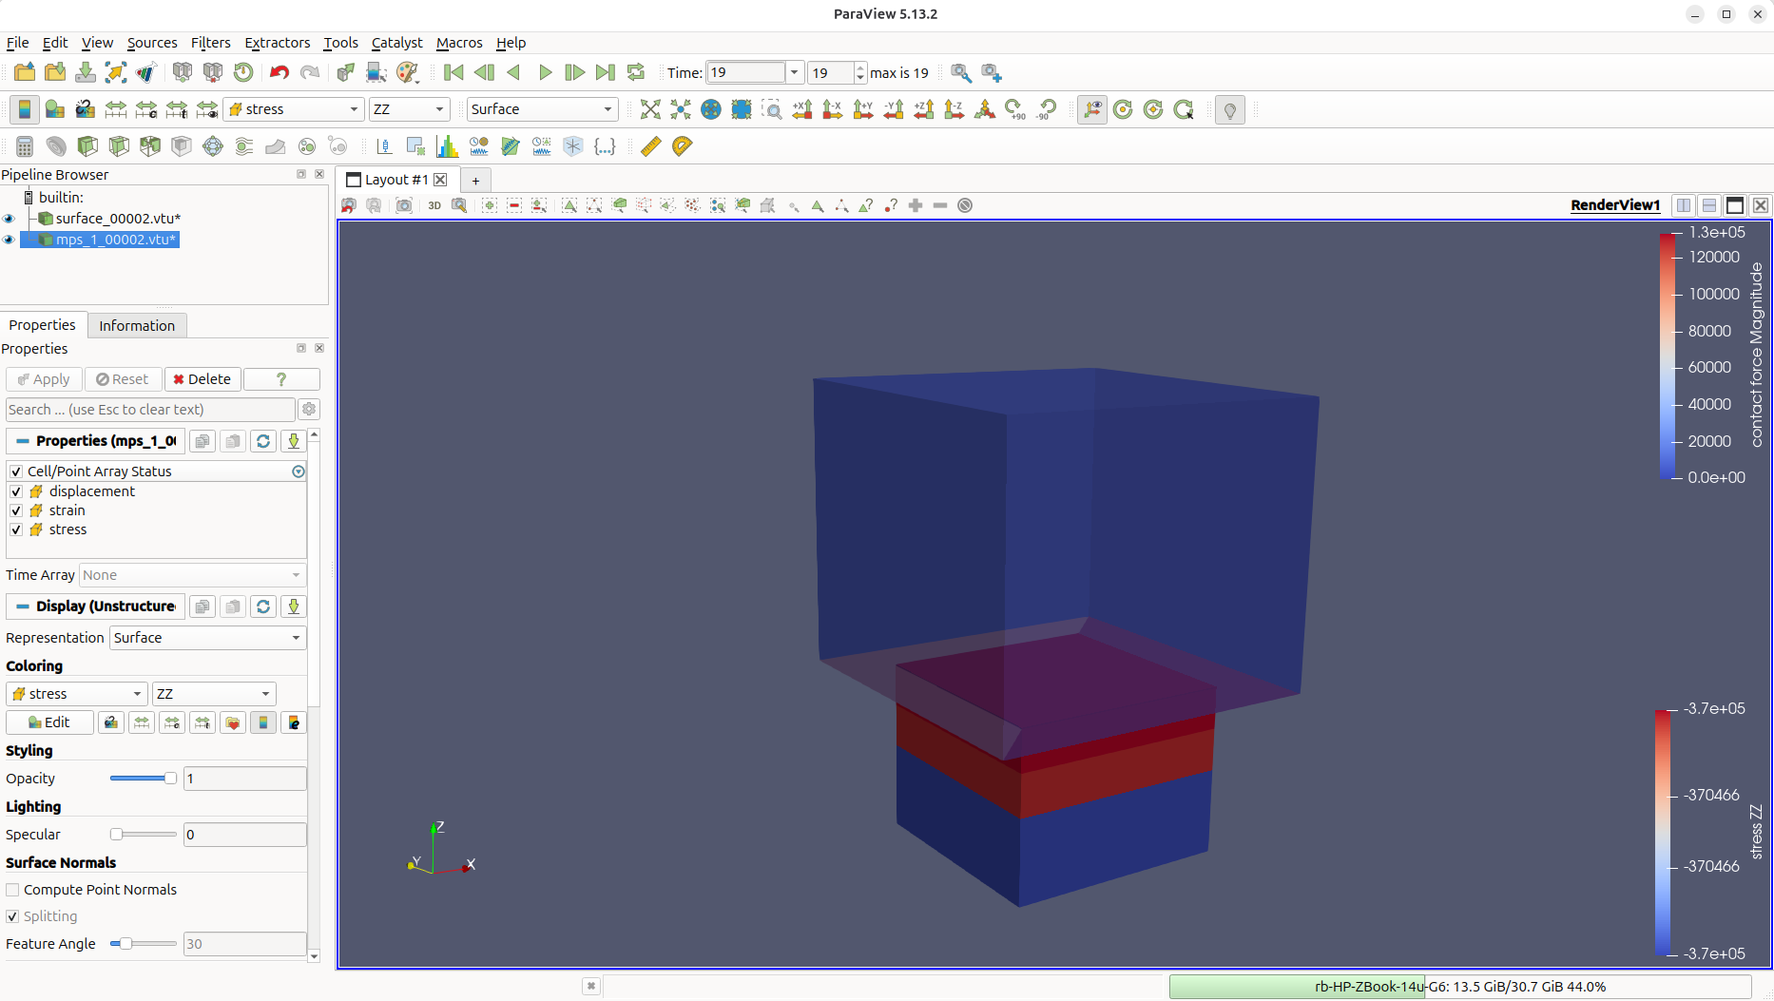
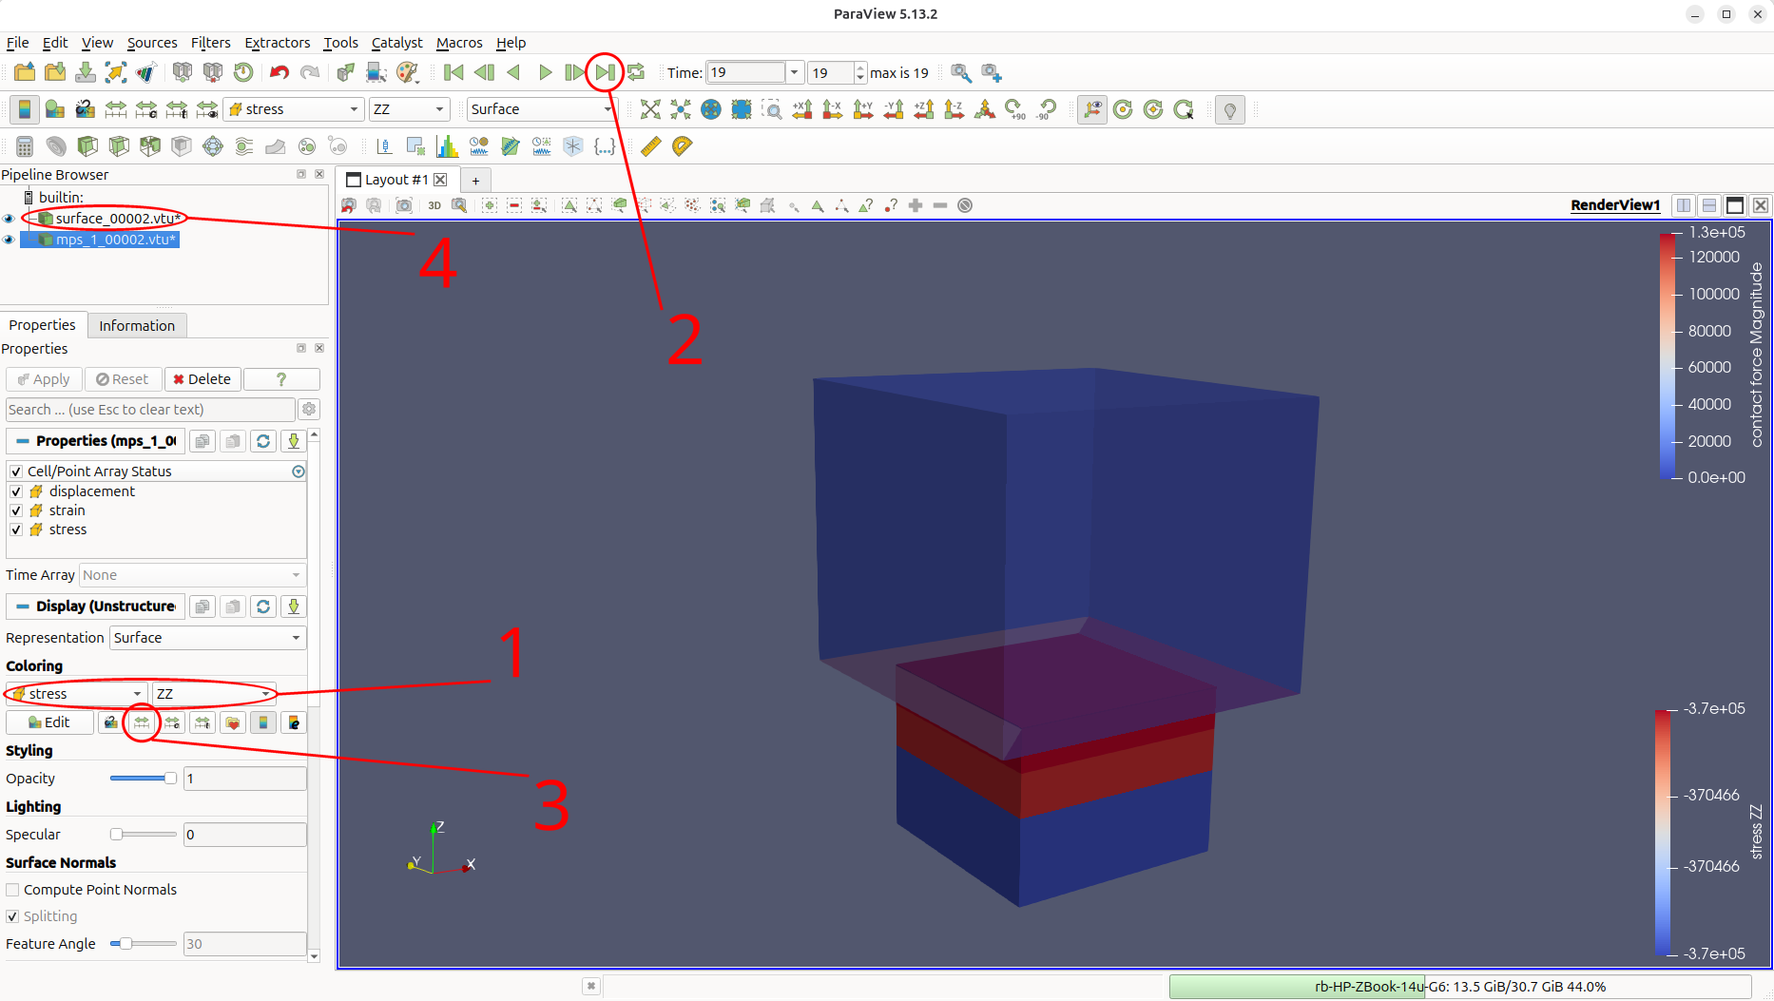
new images and labels

diff --git a/docs/stylesheets/extra.css b/docs/stylesheets/extra.css
@@ -669,6 +669,15 @@ h1, h2, h3, h4, h5, h6 {
   justify-items: center;
 }
 
+/* ... but cards fill their cells, as in Material's own grid cards. With
+   <div class="grid cards equal" markdown> every row is the height of the tallest. */
+.md-typeset .grid.cards {
+  justify-items: stretch;
+}
+.md-typeset .grid.cards.equal {
+  grid-auto-rows: 1fr;
+}
+
 /* Fix .grid layout when figures are wrapped in <p> by python-markdown.
    Browsers auto-close the <p> before the block-level <figure>, leaving stray
    empty <p> elements as grid items. Hide them so only the figures count. */

diff --git a/docs/docs/TutorialProblems/Tutorial_6.md b/docs/docs/TutorialProblems/Tutorial_6.md
@@ -601,51 +601,37 @@ The VTK files are written to `vtk_AC14_dr32` (see [Output](#output)). The walkth
 
 <div class="walkthrough" markdown>
 <div markdown>
-**1. Open the soil and the anchor.** *File → Open*, go to `vtk_AC14_dr32`, hold `Ctrl` and select the `mps_1_..vtu` (soil) and `surface_..vtu` (fluke and shank) series, click *OK* and then *Apply*.
+**1. Open the soil and the anchor.** *File → Open* and go to `vtk_AC14_dr32`. Hold `Ctrl` and select the `mps_1_..vtu` (soil), `surface_..vtu` (fluke and shank) and `tracked_..vtu` (the fluke-tip marker) series (1), then click *OK* (2).
 </div>
 <div markdown>
-!!! example "Placeholder: ParaView screenshot"
-    `img/Tutorial_6/paraview_1.png` - the soil and the anchor after *Apply*.
+![The soil, anchor surface and tracked-node series selected in the Open File dialog.](../../img/Tutorial_6/anchor_1.png){ #fig-anchor-pv-1 }
 </div>
 </div>
 
 <div class="walkthrough" markdown>
 <div markdown>
-**2. Mirror the half model.** Select `mps_1_..vtu` and apply *Filters → Alphabetical → Reflect* with *Plane* `Y` and *Center* `0`. Do the same for `surface_..vtu` to show the whole anchor.
+**2. Go to the end of the drag.** Click *Apply*, then click *Last Frame* (`▶|`) (1) to go to the last output step. The soil shown is the window of active material points around the anchor, with the half anchor on the plane of symmetry.
 </div>
 <div markdown>
-!!! example "Placeholder: ParaView screenshot"
-    `img/Tutorial_6/paraview_2.png` - the full soil window and the full anchor after reflecting.
+![The soil window and the anchor at the last output step.](../../img/Tutorial_6/anchor_2.png){ #fig-anchor-pv-2 }
 </div>
 </div>
 
 <div class="walkthrough" markdown>
 <div markdown>
-**3. Cut the soil away from the anchor.** Select the reflected soil and apply *Filters → Common → Clip* with *Normal* `(0, 1, 0)` and *Origin* `(0, 0, 0)`, and untick *Show Plane*. Adjust the clip until the embedded anchor can be seen through the section.
+**3. Colour by displacement.** With `mps_1_..vtu` selected in the *Pipeline Browser*, set *Coloring* to `displacement` and `Magnitude` (1). The full range, up to about $25$ m, leaves most of the soil the same colour, so click *Rescale to Custom Range* (2), enter `0` and `5` (3) and click *Ok*.
 </div>
 <div markdown>
-!!! example "Placeholder: ParaView screenshot"
-    `img/Tutorial_6/paraview_3.png` - the anchor embedded in the clipped soil.
+![Colouring by displacement magnitude and setting a custom range.](../../img/Tutorial_6/anchor_3.png){ #fig-anchor-pv-3 }
 </div>
 </div>
 
 <div class="walkthrough" markdown>
 <div markdown>
-**4. Colour by displacement at the final step.** Colour the clipped soil by `displacement` → `Magnitude` and the anchor surface by `contact force` → `Magnitude`, click *Go to Last* (`▶|`) and then *Rescale to Data Range*.
+**4. Play the drag.** The soil moves around the anchor and barely at all away from it. Click *First Frame* (`|◀`) and then *Play* (`▶`) to watch the anchor settle and drag, with the window of active soil moving with it.
 </div>
 <div markdown>
-!!! example "Placeholder: ParaView screenshot"
-    `img/Tutorial_6/paraview_4.png` - soil displacement and contact force on the anchor at the end of the drag.
-</div>
-</div>
-
-<div class="walkthrough" markdown>
-<div markdown>
-**5. Play the drag.** Click *Play* (`▶`) to watch the anchor settle and then drag, with the refined mesh and the window of active soil moving with it.
-</div>
-<div markdown>
-!!! example "Placeholder: ParaView screenshot"
-    `img/Tutorial_6/paraview_5.png` - a frame part-way through the drag.
+![Soil displacement around the anchor at the end of the drag, on a 0 to 5 m scale.](../../img/Tutorial_6/anchor_4.png){ #fig-anchor-pv-4 }
 </div>
 </div>
 
@@ -653,27 +639,61 @@ The VTK files are written to `vtk_AC14_dr32` (see [Output](#output)). The walkth
 
 `csv_AC14_dr32/rigid_body.csv` has one row per output step, with columns for each point - `body1` the fluke, `body2` the shank and `body3` the pull point - followed by `track1_x`, `track1_y` and `track1_z`, the position of the tracked fluke tip:
 
-- **Pull-line force:** `body3_reaction force_x` is the force needed to move the pull point, i.e. the tension the anchor develops.
+- **Pull-line force:** `body3_reaction force_x` is the force needed to move the pull point, i.e. the pull the anchor resists. Only half the anchor is modelled, so the force on the whole anchor is twice this.
 - **Drag distance:** `body3_position_x` minus its value at the start of stage 3.
-- **Embedment:** the height of the soil surface minus `track1_z`, the height of the fluke tip. The sand settles under its own weight in stage 1, so take the surface height from the `material top` that MPM3S prints in the rigid body surface placement message at the start of stage 2 - $18.2894$ m here.
+- **Embedment:** `track1_z`, the height of the fluke tip, at $t = 0$ of stage 3 minus its current value. The anchor is placed on the soil surface at the start of stage 2 and settles in during it, so the fluke tip starts stage 3 at $18.2538$ m, just below the surface (the `material top` in the rigid body surface placement message, $18.2894$ m).
 
 The `time` column restarts at the start of each stage.
 
-!!! example "Placeholder: results plot"
-    `img/Tutorial_6/anchor_trajectory.png` - embedment depth and pull-line force against drag distance.
+The short Julia script below plots the depth of the fluke tip against the drag distance in stage 3, with the final depth measured in the centrifuge, $2.8$ m [@sharif]. Run it from the `MPM3S` folder, either by copying it into the REPL or by saving it as `anchor_depth.jl` and running `include("anchor_depth.jl")`. It needs [Plots](https://docs.juliaplots.org/), installed as described in [Tutorial 1](Tutorial_1.md#analysing-the-stress-variation-with-height).
 
-### Published results
+```julia
+using DelimitedFiles, Plots
 
-The figures below are reproduced from [@bird2026implicitoctreebasedadaptivematerial], for anchors dragged $19$ m and compared against the structured-mesh reference solution of Bird et al. [@birdanchors2026] and the centrifuge measurements of Sharif et al. [@sharif]. The octree background mesh and GIMP distribution around the anchor at $19$ m of drag, with elements coloured by refinement age (oldest blue, youngest red), is shown in [](#fig-anchor-example):
+# one row per output step, through all three stages
+data, header = readdlm("csv_AC14_dr32/rigid_body.csv", ',', Float64; header=true)
+column(name) = data[:, findfirst(==(name), vec(header))]
+x_pull = column("body3_position_x")   # pull point (m)
+z_tip  = column("track1_z")           # height of the fluke tip (m)
 
-![Octree background mesh and GIMP distribution for the anchor at a drag distance of 19 m, mesh coloured by refinement age.](../../img/Tutorial_6/anchor_example.png){ #fig-anchor-example width="70%" }
+# stage 3, the drag: the pull point is held still until then, so the last row before it moves is t = 0 of stage 3
+i0 = findfirst(x_pull .> x_pull[1]) - 1
+s  = i0:length(x_pull)
+drag  = x_pull[s] .- x_pull[i0]       # drag distance (m)
+depth = z_tip[i0] .- z_tip[s]         # depth of the fluke tip below its position at t = 0 (m)
 
-*Figure reproduced from [@bird2026implicitoctreebasedadaptivematerial].*
+println("final depth: MPM3S ", round(depth[end], digits=2), " m, centrifuge 2.8 m")
 
-The anchor trajectories (penetration depth against horizontal travel) are compared in [](#fig-anchor-results):
+plot(drag, depth, yflip=true, label="MPM3S", xlabel="drag distance (m)", ylabel="fluke tip depth (m)", legend=:topright)
+hline!([2.8], linestyle=:dash, label="centrifuge")
+```
 
-![Comparison of anchor trajectories for different adaptivity schemes against the structured-mesh reference and experimental data.](../../img/Tutorial_6/anchor_results.png){ #fig-anchor-results width="70%" }
+For this run it prints:
 
-*Figure reproduced from [@bird2026implicitoctreebasedadaptivematerial].*
+```text
+final depth: MPM3S 2.67 m, centrifuge 2.8 m
+```
 
-In that study, simulations A and B (both with a smallest element size of $0.1$ m) match or exceed the accuracy of the structured-mesh reference. Simulation B is $5.5$ times faster than the structured-mesh reference and emits approximately $21$ times less CO$_2$e. The trajectory becomes insensitive to the size of the refined region once its element size is at least twice the smallest element size, showing that the octree refinement is well converged in the near field.
+![Depth of the fluke tip below its position at the start of stage 3 against drag distance, with the final depth measured in the centrifuge.](../../img/Tutorial_6/anchor_depth.png){ #fig-anchor-depth width="50%" }
+
+The fluke tip dives quickly over the first $20$ m of drag, then levels off at about $2.7$ m below where it started. The second script, run after the first, plots the pull-line force on the whole anchor. It rises as the anchor embeds and then fluctuates about a steady value once the depth levels off.
+
+```julia
+# run after anchor_depth.jl, which reads the data and sets s and drag
+F_pull = column("body3_reaction force_x")   # force on the pull point, half the anchor (N)
+force  = -2 .* F_pull[s] ./ 1e3             # the whole anchor: twice the half model (kN)
+
+# the force settles to a steady value once the anchor stops diving; average it over the last 20 m
+steady = drag .> drag[end] - 20
+println("steady pull-line force: ", round(sum(force[steady]) / count(steady)), " kN")
+
+plot(drag, force, label="MPM3S", xlabel="drag distance (m)", ylabel="pull-line force (kN)", legend=:bottomright)
+```
+
+For this run it prints:
+
+```text
+steady pull-line force: 698.0 kN
+```
+
+![Pull-line force on the whole anchor against drag distance.](../../img/Tutorial_6/anchor_force.png){ #fig-anchor-force width="50%" }

diff --git a/docs/docs/TutorialProblems/Tutorial_2.md b/docs/docs/TutorialProblems/Tutorial_2.md
@@ -413,7 +413,7 @@ The walkthrough below follows the same pattern as the [ParaView walkthrough from
 
 <div class="walkthrough" markdown>
 <div markdown>
-**2. Open the output files.** Use *File → Open* and navigate to `vtk_cube`. ParaView groups the numbered files into three series: `body_..vtu`, `mps_1_..vtu` and `surface_..vtu`. Hold `Ctrl` and click `mps_1_..vtu` and `surface_..vtu` so both are highlighted, then click *OK*.
+**2. Open the output files.** Use *File → Open* and navigate to `vtk_cube`. ParaView groups the numbered files into three series: `body_..vtu`, `mps_1_..vtu` and `surface_..vtu`. Hold `Ctrl` and click `mps_1_..vtu` and `surface_..vtu` so both are highlighted (1), then click *OK* (2).
 </div>
 <div markdown>
 ![The Open File dialog in vtk_cube, showing the body_..vtu, mps_1_..vtu and surface_..vtu series.](../../img/Tutorial_2/cube_2.png){ #fig-paraview-2 }
@@ -422,7 +422,7 @@ The walkthrough below follows the same pattern as the [ParaView walkthrough from
 
 <div class="walkthrough" markdown>
 <div markdown>
-**3. Apply the readers.** Click *Apply* in the Properties panel. Both series appear in the *Pipeline Browser*, and the render view shows the rigid cube resting on the soil. The rigid cube overhangs the soil and hides it from most directions, so zoom out and rotate the view to see both bodies.
+**3. Apply the readers.** Click *Apply* (1) in the Properties panel. Both series appear in the *Pipeline Browser*, and the render view shows the rigid cube resting on the soil. The rigid cube overhangs the soil and hides it from most directions, so zoom out and rotate the view to see both bodies.
 </div>
 <div markdown>
 ![Both series in the Pipeline Browser after Apply, with the opaque rigid cube resting on the soil.](../../img/Tutorial_2/cube_1.png){ #fig-paraview-3 }
@@ -431,7 +431,7 @@ The walkthrough below follows the same pattern as the [ParaView walkthrough from
 
 <div class="walkthrough" markdown>
 <div markdown>
-**4. Make the rigid cube see-through.** Select `surface_..vtu` in the *Pipeline Browser* and set *Opacity*, under *Styling*, to `0.6`. The soil can now be seen through the rigid cube, which overhangs it on every side.
+**4. Make the rigid cube see-through.** Select `surface_..vtu` in the *Pipeline Browser* (1) and set *Opacity*, under *Styling*, to `0.6` (2). The soil can now be seen through the rigid cube, which overhangs it on every side.
 </div>
 <div markdown>
 ![The rigid cube with an opacity of 0.6, showing the soil beneath it.](../../img/Tutorial_2/cube_3.png){ #fig-paraview-4 }
@@ -440,16 +440,16 @@ The walkthrough below follows the same pattern as the [ParaView walkthrough from
 
 <div class="walkthrough" markdown>
 <div markdown>
-**5. Choose a field to colour the GIMPs by.** Select `mps_1_..vtu` and open the *Coloring* menu, which lists the fields written to the VTK files: `displacement`, `strain` and `stress`. Choosing `displacement` → `Z` and stepping through time shows the displacement of the GIMPs increasing evenly from the base to the top of the soil as the rigid cube moves $0.2$ m down.
+**5. Choose a field to colour the GIMPs by.** Select `mps_1_..vtu` (1) and open the *Coloring* menu (2), which lists the fields written to the VTK files: `displacement`, `strain` and `stress`. Choosing `displacement` → `Magnitude` and stepping through time shows the displacement of the GIMPs increasing evenly from the base to the top of the soil as the rigid cube moves $0.2$ m down.
 </div>
 <div markdown>
-![The Coloring menu for mps_1_..vtu, listing displacement, strain and stress.](../../img/Tutorial_2/cube_displacement.png){ #fig-paraview-5 }
+![The soil coloured by displacement magnitude at the final step, under the see-through rigid cube.](../../img/Tutorial_2/cube_displacement.png){ #fig-paraview-5 }
 </div>
 </div>
 
 <div class="walkthrough" markdown>
 <div markdown>
-**6. Inspect the final stress distribution.** Change the GIMPs' *Coloring* to `stress` → `ZZ`, click *Go to Last* (`▶|`) and then *Rescale to Data Range*. The soil has been compressed to about $0.6$ m under the rigid cube. Additionally to inspect the contact force select `surface_..vtu` and change its *Coloring* to `contact force` → `Magnitude`. The force is zero over the sides and top of the rigid cube and is carried by the triangles of its base, which is in contact with the soil.
+**6. Inspect the final stress distribution.** Change the GIMPs' *Coloring* to `stress` → `ZZ` (1), click *Go to Last* (`▶|`) (2) and then *Rescale to Data Range* (3). The soil has been compressed to about $0.6$ m under the rigid cube. Additionally to inspect the contact force select `surface_..vtu` (4) and change its *Coloring* (1) to `contact force` → `Magnitude`. The force is zero over the sides and top of the rigid cube and is carried by the triangles of its base, which is in contact with the soil.
 </div>
 <div markdown>
 ![The compressed soil at the final step, coloured by vertical stress, under the see-through rigid cube.](../../img/Tutorial_2/cube_stress.png){ #fig-paraview-6 }

diff --git a/docs/docs/TutorialProblems/Tutorial_1.md b/docs/docs/TutorialProblems/Tutorial_1.md
@@ -390,7 +390,7 @@ The output files can be opened in [ParaView](https://www.paraview.org/) to inspe
 
 <div class="walkthrough" markdown>
 <div markdown>
-**2. Open the output files.** *File → Open* and navigate to `vtk_column`. ParaView groups the numbered files into one series, `mps_1_..vtu`; select it and click *OK*.
+**2. Open the output files.** *File → Open* and navigate to `vtk_column`. ParaView groups the numbered files into one series, `mps_1_..vtu`; select it (1) and click *OK* (2).
 </div>
 <div markdown>
 ![The Open File dialog with the mps_1_..vtu series selected.](../../img/Tutorial_1/Column_2.png){ #fig-paraview-2 }
@@ -399,7 +399,7 @@ The output files can be opened in [ParaView](https://www.paraview.org/) to inspe
 
 <div class="walkthrough" markdown>
 <div markdown>
-**3. Apply the reader.** Click *Apply* in the Properties panel. The column of GIMPs appears at the first load step.
+**3. Apply the reader.** Click *Apply* (1) in the Properties panel. The column of GIMPs appears at the first load step.
 </div>
 <div markdown>
 ![The series in the Pipeline Browser, with Apply highlighted in the Properties panel.](../../img/Tutorial_1/Column_3.png){ #fig-paraview-3 }
@@ -416,7 +416,7 @@ The output files can be opened in [ParaView](https://www.paraview.org/) to inspe
 
 <div class="walkthrough" markdown>
 <div markdown>
-**4. Colour the GIMPs by vertical displacement.** Change *Coloring* to `displacement` → `Z`. At the first load step the displacements are still small.
+**4. Colour the GIMPs by displacement.** Change *Coloring* to `displacement` (1); the menu beside it shows `Magnitude`, which for this column is the vertical displacement. At the first load step the displacements are still small.
 </div>
 <div markdown>
 ![The column of GIMPs at the first load step, with displacement chosen in the Coloring menu.](../../img/Tutorial_1/Column_4.png){ #fig-paraview-4 }
@@ -425,7 +425,7 @@ The output files can be opened in [ParaView](https://www.paraview.org/) to inspe
 
 <div class="walkthrough" markdown>
 <div markdown>
-**5. Advance to the final step.** Click the *Go to Last* button (`▶|`) in the time toolbar, then *Rescale to Data Range* in the colour-bar toolbar so the colour scale matches the deformed column. The column has shortened from $0.8$ m to about $0.54$ m, so the top has moved down by about $0.26$ m.
+**5. Advance to the final step.** Click the *Go to Last* button (`▶|`) (1) in the time toolbar, then *Rescale to Visible Range* (2) in the colour-map toolbar so the colour scale matches the deformed column. The column has shortened from $0.8$ m to about $0.54$ m, so the top has moved down by about $0.26$ m.
 </div>
 <div markdown>
 ![The deformed column at the final load step, coloured by displacement.](../../img/Tutorial_1/Column_5.png){ #fig-paraview-5 }
@@ -434,7 +434,7 @@ The output files can be opened in [ParaView](https://www.paraview.org/) to inspe
 
 <div class="walkthrough" markdown>
 <div markdown>
-**6. Colour by vertical stress.** Change *Coloring* to `stress` → `ZZ` and rescale. The compressive stress increases steadily from zero at the top to its largest value at the base.
+**6. Colour by vertical stress.** Change *Coloring* to `stress` (1) and `ZZ` (2), and rescale (3). The compressive stress increases steadily from zero at the top to its largest value at the base.
 </div>
 <div markdown>
 ![Choosing the ZZ component of stress in the Coloring menu.](../../img/Tutorial_1/Column_6.png){ #fig-paraview-6 }
@@ -443,7 +443,7 @@ The output files can be opened in [ParaView](https://www.paraview.org/) to inspe
 
 <div class="walkthrough" markdown>
 <div markdown>
-**7. Look at the GIMP domains.** Change the *Representation* to *Surface With Edges* and zoom in on the base and the top of the column. With `"domain update": "stretch"` the GIMPs near the base are squashed to about half their original height, while those near the top are barely deformed.
+**7. Look at the GIMP domains.** Change the *Representation* to *Surface With Edges* (1) and zoom in on the base and the top of the column. With `"domain update": "stretch"` the GIMPs near the base are squashed to about half their original height, while those near the top are barely deformed.
 </div>
 <div markdown>
 ![Choosing Surface With Edges in the Representation menu, with the column coloured by vertical stress.](../../img/Tutorial_1/Column_7.png){ #fig-paraview-7 }

diff --git a/docs/docs/TutorialProblems/Tutorial_3.md b/docs/docs/TutorialProblems/Tutorial_3.md
@@ -582,7 +582,7 @@ $$
 
 and the penetration depth is the height at which the cone is placed on the soil - $19.8474$ m, the `material top` in the rigid body surface placement message - minus the tip height from `position_data.csv`. Both files have one row per output step; the first rows, from stage 1, have a tip height of $0$ and are skipped.
 
-The short Julia script below plots $q_c$ against the penetration depth. Run it from the `MPM3S` folder, either by copying it into the REPL or by saving it as `plot_qc.jl` and running `include("plot_qc.jl")`. It needs [Plots](https://docs.juliaplots.org/), installed as described in [Tutorial 1](Tutorial_1.md#analysing-the-stress-variation-with-height).
+The short Julia script below plots $q_c$ against the penetration depth. Run it from the `MPM3S` folder, either by copying it into the REPL or by saving it as `plot_qc.jl` and running `include("plot_qc.jl")`. It needs [Plots](https://docs.juliaplots.org/), installed as described in [Tutorial 1](Tutorial_1.md#analysing-the-stress-variation-with-height). It also plots ten points interpolated from a centrifuge CPT in sand at $D_r = 38\%$, the data used by Bird *et al.* [@birdanchors2026]; the sand in this tutorial is slightly looser, at $D_r = 32\%$.
 
 ```julia
 using DelimitedFiles, Plots
@@ -601,8 +601,13 @@ z_surface = 19.8474   # "material top" in the rigid body surface placement messa
 depth = (z_surface .- z[s2])/r
 qc = 4 .* F[s2] ./ (π * r^2) ./ 1e6   # tip resistance of the full cone (MPa)
 
-plot(qc, depth, yflip=true, label="MPM3S", xlabel="tip resistance q_c (MPa)", ylabel="normalised penetration depth (m/m)")
+# centrifuge CPT in sand at D_r = 38% (Bird et al., 2026): penetration depth (m) and tip resistance (MPa)
+depth_ref = [0.45, 0.90, 1.35, 1.80, 2.25, 2.70, 3.15, 3.60, 4.05, 4.50]
+qc_ref    = [0.101, 0.310, 0.566, 0.820, 1.060, 1.315, 1.567, 1.846, 2.112, 2.356]
+
+plot(qc, depth, yflip=true, label="MPM3S", xlabel="tip resistance q_c (MPa)", ylabel="normalised penetration depth (m/m)", legend=:topright)
+scatter!(qc_ref, depth_ref ./ r, label="centrifuge, D_r = 38%", markersize=4)
 ```
 
-![Tip resistance against penetration depth normalised by the cone radius, from the script above.](../../img/Tutorial_3/cone_resistance.png){ #fig-cpt-qc width="50%" }
+![Tip resistance against penetration depth normalised by the cone radius, from the script above, with the centrifuge data at a relative density of 38%.](../../img/Tutorial_3/cone_resistance.png){ #fig-cpt-qc width="50%" }
 

diff --git a/docs/docs/TechnicalReferences/TechnicalReference.md b/docs/docs/TechnicalReferences/TechnicalReference.md
@@ -2,7 +2,7 @@
 
 This technical reference outlines the background theory and numerical implementation that underpin the material point method soil-structure interaction software. Topics without a link are still being written.
 
-<div class="grid cards" markdown>
+<div class="grid cards equal" markdown>
 
 -   :material-dots-grid:{ .lg .middle } __Material point method basics__
 
